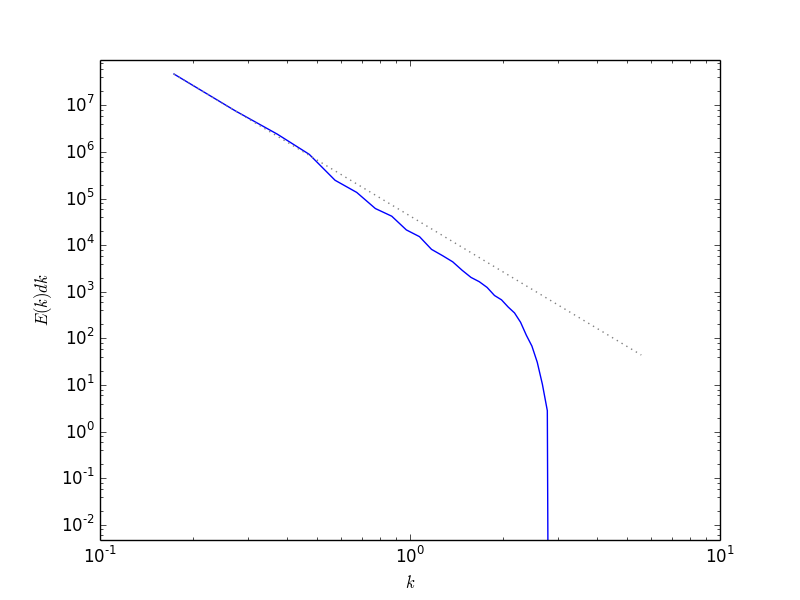
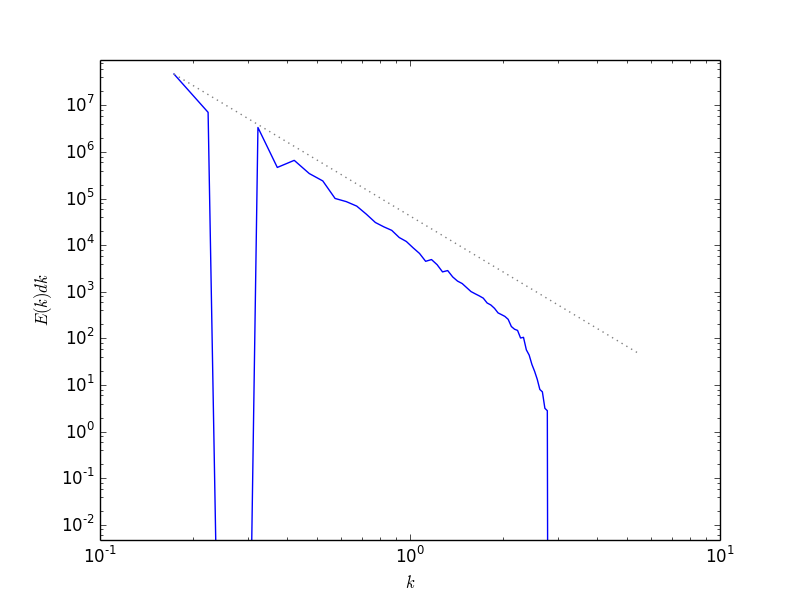
more notes -- trying to get the last bit of the normalation down

diff --git a/overview.tex b/overview.tex
@@ -132,7 +132,8 @@ This function is shown in Figure~\ref{fig:phi1d}.
 \centering
 \includegraphics[width=0.5\linewidth]{phi_1d}
 \begin{minipage}[b]{0.45\linewidth}
-\caption{\label{fig:phi1d} The real-space, one-dimensional function $f(x)$.}
+\caption{\label{fig:phi1d} The real-space, one-dimensional function $f(x)$,
+for the case $N_\mathrm{modes} = 16$.}
 \end{minipage}
 \end{figure}
 
@@ -239,9 +240,16 @@ W(k) = \sum_{m=1}^{N_\mathrm{modes}}
        \sum_{p=1}^{N_\mathrm{modes}} [ k_m^2 + k_n^2 + k_p^2 = k ]
 \end{equation}
 
-The factor $4\pi k^2$ in the denominator reflects the $dS$ in the 
-definition of the power spectrum integral.  (Actually, this second
-normalization maybe should be in terms of the bins that we ultimately
-bin into, and take the form $(4/3)\pi (\kappa_l^3 - \kappa_{l-1}^3)$.
+The $\Delta S$ in the weighting reflects the fact that the power 
+in mode $k$ resides in a spherical shell---we need to divide this
+area out so when we integrate over $dS$, we get the correct power
+in the shell.  For $|k| \gg \Delta \kappa$, we can take $\Delta S \sim
+4\pi k^2$.  But we can do better by recognizing that eventually we
+will bin the data up into the bins given by $\{\kappa_l\}$.  If we
+denote the bin $\xi$ such that $\kappa_\xi \le k < \kappa_{\xi+1}$,
+then we can take
+\begin{equation}
+\Delta S = 4 \pi \bar{\kappa}_\xi^2
+\end{equation}
 
 \end{document}

diff --git a/ps.py b/ps.py
@@ -49,7 +49,7 @@ kmax = num*dk + kmin
 
 bins = np.linspace(kmin, kmax, num+1, endpoint=True)
 
-# bin centers
+# bin centers -- kbin_center[i] is between bins[i], bins[i+1]
 kbin_center = 0.5*(bins[0:num] + bins[1:num+1])
 
 #---------------------------------------------------------------------------
@@ -98,7 +98,12 @@ for m in range(mode_min,modes+1):
             ii2 = m**2 + n**2 + p**2
 
             k = np.sqrt(k_x**2 + k_y**2 + k_z**2)
-            dA = 4*np.pi*k**2
+
+            # which bin would this k fall into?
+            xi = (np.nonzero(k > bins))[0]
+            xi = xi[len(xi)-1]
+
+            dA = 4*np.pi*kbin_center[xi]**2
             A = np.sqrt(A_0*k**index/(weights[ii2]*dA))
 
             phi += A*np.sin(2.0*np.pi*k_x*x3d + 
@@ -230,8 +235,7 @@ E_spectrum = np.zeros(len(ncount)-1, dtype=np.float64)
 
 for n in range(len(ncount)):
     if not ncount[n] == 0: 
-        #E_spectrum[n-1] = np.sum((np.abs(phi_hat)).flat[whichbin==n]) /ncount[n]
-        E_spectrum[n-1] = np.sum((np.abs(phi_hat)**2).flat[whichbin==n]) #/ncount[n]
+        E_spectrum[n-1] = np.sum((np.abs(phi_hat)**2).flat[whichbin==n])
 
 
 #---------------------------------------------------------------------------
